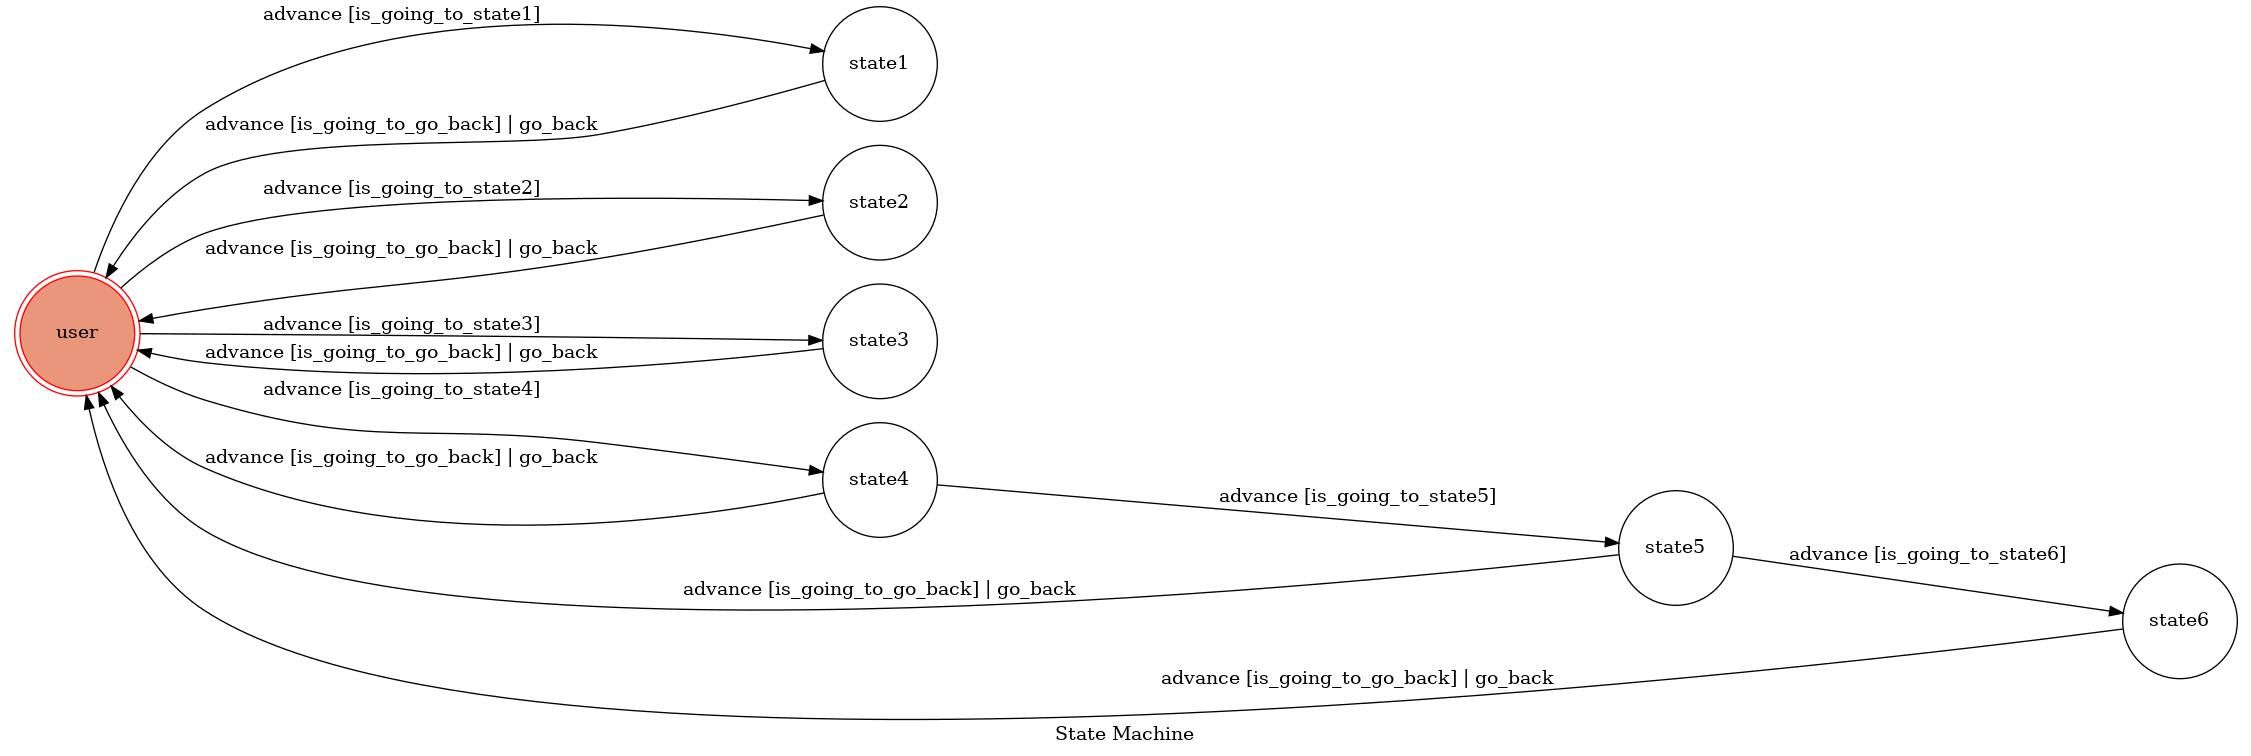
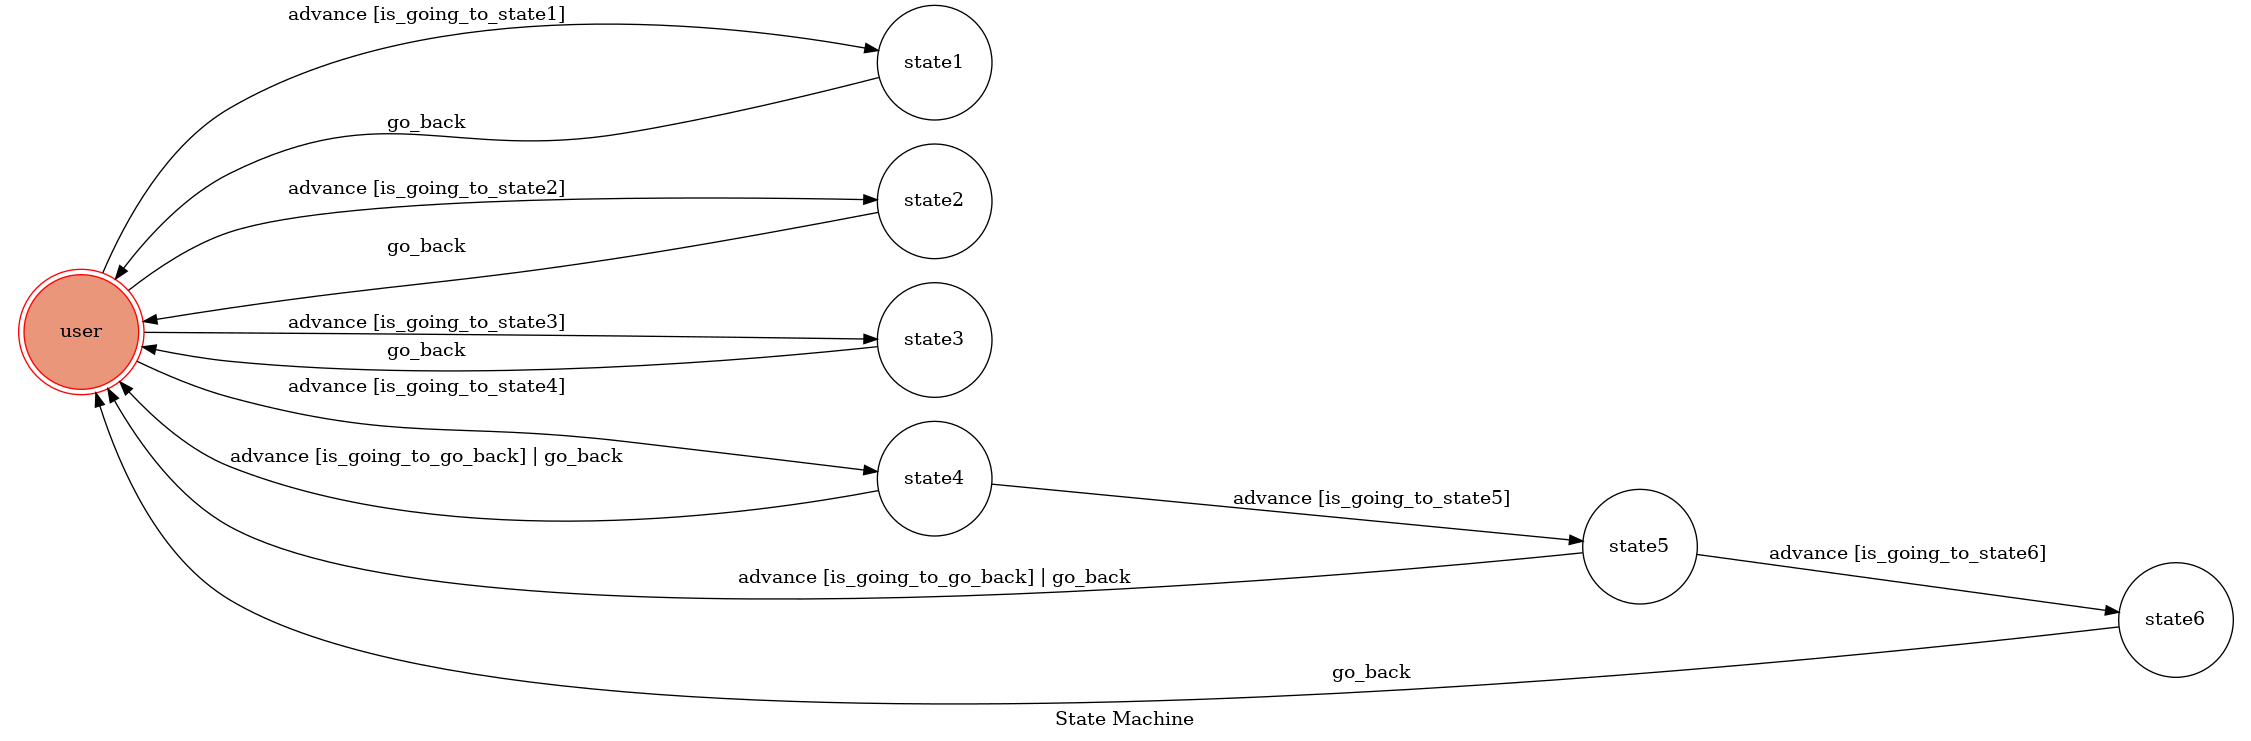
Add files via upload

diff --git a/fsm_image.py b/fsm_image.py
@@ -80,7 +80,7 @@ class TocMachine(GraphMachine):
         print('CURRENT STATE: ' + machine.state)
         self.go_back()
 
-    def on_exit_state6(self,event):
+    def on_exit_state6(self):
         print('Leaving state6')
 
 
@@ -149,12 +149,12 @@ machine = TocMachine(
         {
             'trigger': 'advance',
             'source': [
-                'state1',
-                'state2',
-                'state3',
+#                'state1',
+#                'state2',
+#                'state3',
                 'state4',
-                'state5',
-                'state6'
+                'state5'#,
+                #'state6'
             ],
             'dest': 'user',
             'conditions': 'is_going_to_go_back'
@@ -165,14 +165,29 @@ machine = TocMachine(
     show_conditions=True,
 )
 
+event=['go to state1', 'go to state2', 'go to state3', 'go to state4', 'go to state5', 'go to state6', 'go back']
 
 if __name__ == "__main__":
     machine.get_graph().draw('fsm.png', prog='dot', format='png')
     while True:
-        text = input('input: ')
-        print('---')
-        print('LAST STATE: ' + machine.state)        
+        print(len(event))
+        for i in range(len(event)):
+            print(event[i])
 
-        machine.advance(text)
-        print('FINAL STATE: ' + machine.state)
-        print('---')
+        text = input('input: ')
+        
+        for i in range(len(event)):
+            if text.lower() == event[i]:
+                print('---')
+                print('LAST STATE: ' + machine.state)        
+
+                machine.advance(text)
+                print('FINAL STATE: ' + machine.state)
+                print('---')
+                break
+            if i==7:
+                print('no match event\nplease input again')
+
+
+        
+

diff --git a/fsm.py b/fsm.py
@@ -46,7 +46,7 @@ class TocMachine(GraphMachine):
             return text.lower() == 'go to state6'
         return False
 
-    def is_going_to_go_back(self, text):
+    def is_going_to_go_back(self, event):
         if event.get("message"):
             text = event['message']['text']
             return text.lower() == 'go back' 
@@ -90,8 +90,10 @@ class TocMachine(GraphMachine):
         send_text_message(sender_id, "I'm entering state4")
         #self.go_back()
 
-    def on_exit_state4(self):
+    def on_exit_state4(self, event):
         print('Leaving state4')
+        sender_id = event['sender']['id']
+        send_text_message(sender_id, "Leaving state4")
 
     def on_enter_state5(self, event):
         print("I'm entering state5")
@@ -100,8 +102,10 @@ class TocMachine(GraphMachine):
         send_text_message(sender_id, "I'm entering state5")
         #self.go_back()
 
-    def on_exit_state5(self):
+    def on_exit_state5(self, event):
         print('Leaving state5')
+        sender_id = event['sender']['id']
+        send_text_message(sender_id, "Leaving state5")
 
     def on_enter_state6(self, event):
         print("I'm entering state6")
@@ -177,12 +181,12 @@ machine = TocMachine(
         {
             'trigger': 'advance',
             'source': [
-                'state1',
-                'state2',
-                'state3',
+#                'state1',
+#                'state2',
+#                'state3',
                 'state4',
-                'state5',
-                'state6'
+                'state5'#,
+#                'state6'
             ],
             'dest': 'user',
             'conditions': 'is_going_to_go_back'

diff --git a/utils.py b/utils.py
@@ -2,7 +2,7 @@ import requests
 
 
 GRAPH_URL = "https://graph.facebook.com/v2.6"
[2 lines of base64/hex data omitted]
                 
 #ACCESS_TOKEN = os.environ.get("ACCESS_TOKEN")
 

diff --git a/app.py b/app.py
@@ -8,6 +8,8 @@ import json
 VERIFY_TOKEN = "123456"
 
 
+event=['go to state1', 'go to state2', 'go to state3', 'go to state4', 'go to state5', 'go to state6', 'go back']
+
 @route("/webhook", method="GET")
 def setup_webhook():
     mode = request.GET.get("hub.mode")

diff --git a/readme.md b/readme.md
@@ -1,1 +1,35 @@
-toc
+## Run the sever
+
+```sh
+python3 app.py
+```
+
+## Finite State Machine
+![fsm](./fsm.png)
+
+## Usage
+The initial state is set to `user`.
+
+Every time `user` state is triggered to `advance` to another state, it will `go_back` to `user` state after the bot replies corresponding message.
+
+* In user state
+	* Input: "go to state1"
+		* Reply: "I'm entering state1"
+	* Input: "go to state2"
+		* Reply: "I'm entering state2"
+    * Input: "go to state3"
+		* Reply: "I'm entering state3"
+	* Input: "go to state4"
+		* Reply: "I'm entering state4"
+
+* In user state4
+	* Input: "go to state5"
+		* Reply: "I'm entering state5"
+    * Input: "go back"
+		* Reply: "Leaving state4"
+
+* In user state5
+	* Input: "go to state6"
+		* Reply: "I'm entering state6"
+    * Input: "go back"
+		* Reply: "Leaving state5"
